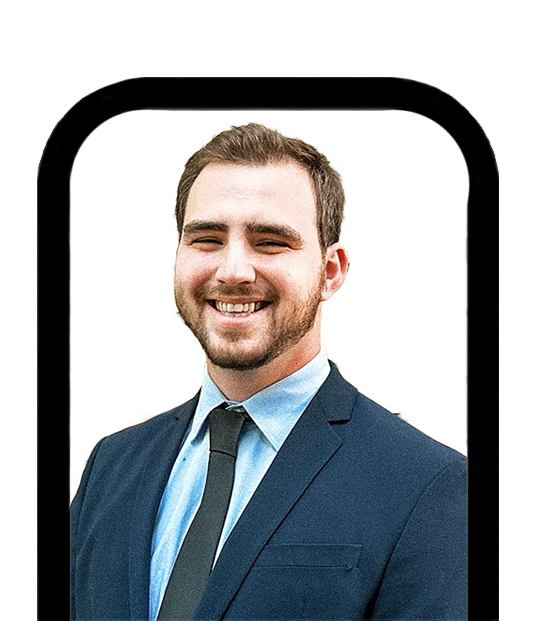
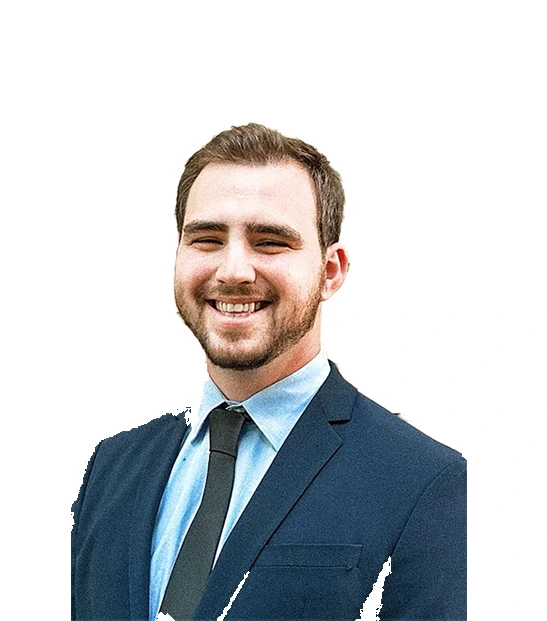
Concierge: strip baked-in dark phone frame to white bg; founder photo: show full width (match image ratio, widen column)

diff --git a/index.html b/index.html
@@ -2219,6 +2219,8 @@
   .sc-media:has(img.sc-img) .sc-chrome,
   .sc-media:has(img.sc-img) .sc-screen,
   .sc-media:has(img.sc-img) .sc-ph-note { display:none; }
+  /* concierge headshot is a transparent cut-out — show it on white, not the dark frame */
+  .sc-media:has(img[src*="human-concierge"]) { background:#ffffff; border-color:var(--paper-line); }
   .showcase { background: var(--paper); }
   .showcase .wrap { max-width: 1180px; }
   .sc-features { display:flex; flex-direction:column; }
@@ -2265,8 +2267,8 @@
   .sc-ph-note { position:absolute; bottom:10px; left:0; right:0; z-index:3; text-align:center; font-family:"JetBrains Mono", monospace; font-size:8px; letter-spacing:0.2em; text-transform:uppercase; color:rgba(243,238,228,0.28); }
   /* founder */
   .sc-founder-sec { background:var(--ink); color:var(--paper); }
-  .sc-founder { display:grid; grid-template-columns:300px 1fr; gap:56px; align-items:center; }
-  .sc-founder-photo { position:relative; aspect-ratio:1/1; border-radius:12px; overflow:hidden; border:1px solid var(--ink-line);
+  .sc-founder { display:grid; grid-template-columns:460px 1fr; gap:56px; align-items:center; }
+  .sc-founder-photo { position:relative; aspect-ratio:1500/835; border-radius:12px; overflow:hidden; border:1px solid var(--ink-line);
     background:radial-gradient(ellipse 80% 70% at 50% 30%, #20406a 0%, #0c1420 75%); display:flex; align-items:flex-end; justify-content:center; }
   .sc-founder-photo span { position:relative; z-index:3; margin-bottom:18px; font-family:"JetBrains Mono", monospace; font-size:9px; letter-spacing:0.2em; text-transform:uppercase; color:rgba(243,238,228,0.4); }
   .sc-founder blockquote { margin:0; font-family:"Cormorant Garamond", serif; font-weight:300; font-style:italic; font-size:34px; line-height:1.22; letter-spacing:-0.01em; }
@@ -2299,7 +2301,7 @@
     .sc-feature { grid-template-columns:1fr; gap:32px; }
     .sc-feature.rev .sc-media { order:0; }
     .sc-founder { grid-template-columns:1fr; gap:32px; }
-    .sc-founder-photo { max-width:260px; }
+    .sc-founder-photo { max-width:none; }
     .sc-tier-grid { grid-template-columns:1fr; }
     .sc-founder blockquote { font-size:26px; }
   }